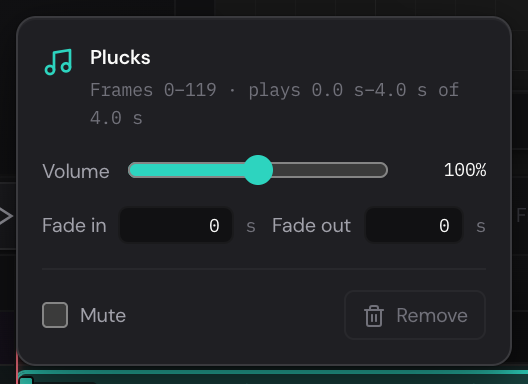
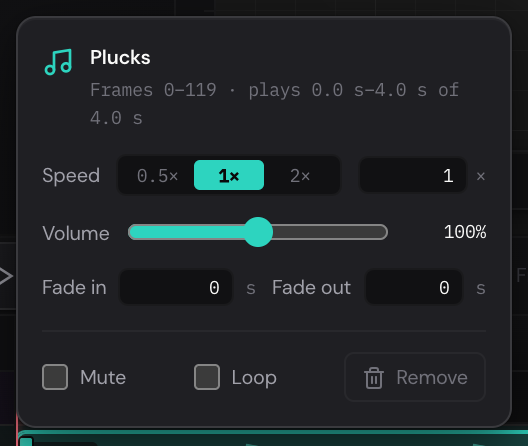
docs(help): sound clips' speed and loop, and a video's sound
A sound clip's settings have had Speed (0.25×–4×, its pitch kept) and Loop
since video clips came: the chapter says so, and how a looped clip's right
end plays it over again. A short section on a video's linked sound (its
link sign, what moves with what, Unlink from Video), and the clip's
right-click menu. The settings picture is taken again.

Claude-Session: https://claude.ai/code/session_01XofH7M6riiyZ34Srzwk8EB

diff --git a/docs/help/sound.md b/docs/help/sound.md
@@ -54,6 +54,9 @@ Point at a clip to see its frames and length.
 - **Trim it:** drag its left or right end. Trimming the left end starts the
   clip later in the sound; trimming the right end stops it sooner. Drag an
   end back out to hear more of the sound again, up to the whole of it.
+- **Play it over again:** turn on **Loop** in its [settings](#settings),
+  then drag its right end past the sound's end. A mark on the clip shows
+  where it starts over.
 
 Click a clip to select it. Then:
 
@@ -63,22 +66,29 @@ Click a clip to select it. Then:
 - [[Delete]] or [[Backspace]] takes it off the timeline.
 
 Right-click a clip for **Sound Settings…**, **Mute** (or **Unmute**) and
-**Delete**. **Edit › Undo** takes back changes to clips.
+**Delete**, and, on a video's sound, **Unlink from Video**. **Edit › Undo**
+takes back changes to clips.
 
 ## Volume, fades and mute {#settings}
 
 Double-click a clip to open its settings.
 
-![The settings of a sound clip: its frames, Volume, Fade in, Fade out, Mute and Remove](img/sound-settings.png "A clip's settings.")
+![The settings of a sound clip: its frames, Speed, Volume, Fade in, Fade out, Mute, Loop and Remove](img/sound-settings.png "A clip's settings.")
 
 - The top line says which frames the clip plays on, and which part of the
-  sound it plays.
+  sound it plays (and, when it's so, that it loops or plays at another
+  speed).
+- **Speed:** click **0.5×**, **1×** or **2×**, or type a speed from 0.25 to
+  4 and press [[Enter]]. A faster clip is shorter on the timeline, a slower
+  one longer, and the sound keeps its pitch.
 - **Volume:** from 0% to 200%. 100% is the sound as it is.
 - **Fade in** and **Fade out:** how many seconds the sound takes to grow
   from silence at the start, and to die away at the end. Type a number and
   press [[Enter]].
 - **Mute:** silence the clip without taking it away. A muted clip is dimmed,
   with a speaker crossed out before its name.
+- **Loop:** the sound starts over at its end. Drag the clip's right end out
+  to play it for longer.
 - **Remove:** take the clip off the timeline.
 
 Press [[Esc]] or click outside the settings to close them.
@@ -86,6 +96,16 @@ Press [[Esc]] or click outside the settings to close them.
 You can also fade a clip on the lane itself: drag its top-left corner to
 the right to fade it in, and its top-right corner to the left to fade it
 out. The fade is drawn on the clip, and the waveform follows it.
+
+## A video's sound {#video-sound}
+
+When you [import a video](video-clips.md#import) with sound, its sound goes
+on the Sound lane as a clip with a link sign before its name. It's linked to
+the video: moving, trimming, looping or changing the speed of either one
+does the same to the other. Its volume, fades and mute are its own.
+
+To change it on its own, right-click it and choose **Unlink from Video**.
+See [Its sound](video-clips.md#sound).
 
 ## Hear your sounds {#playing}
 
